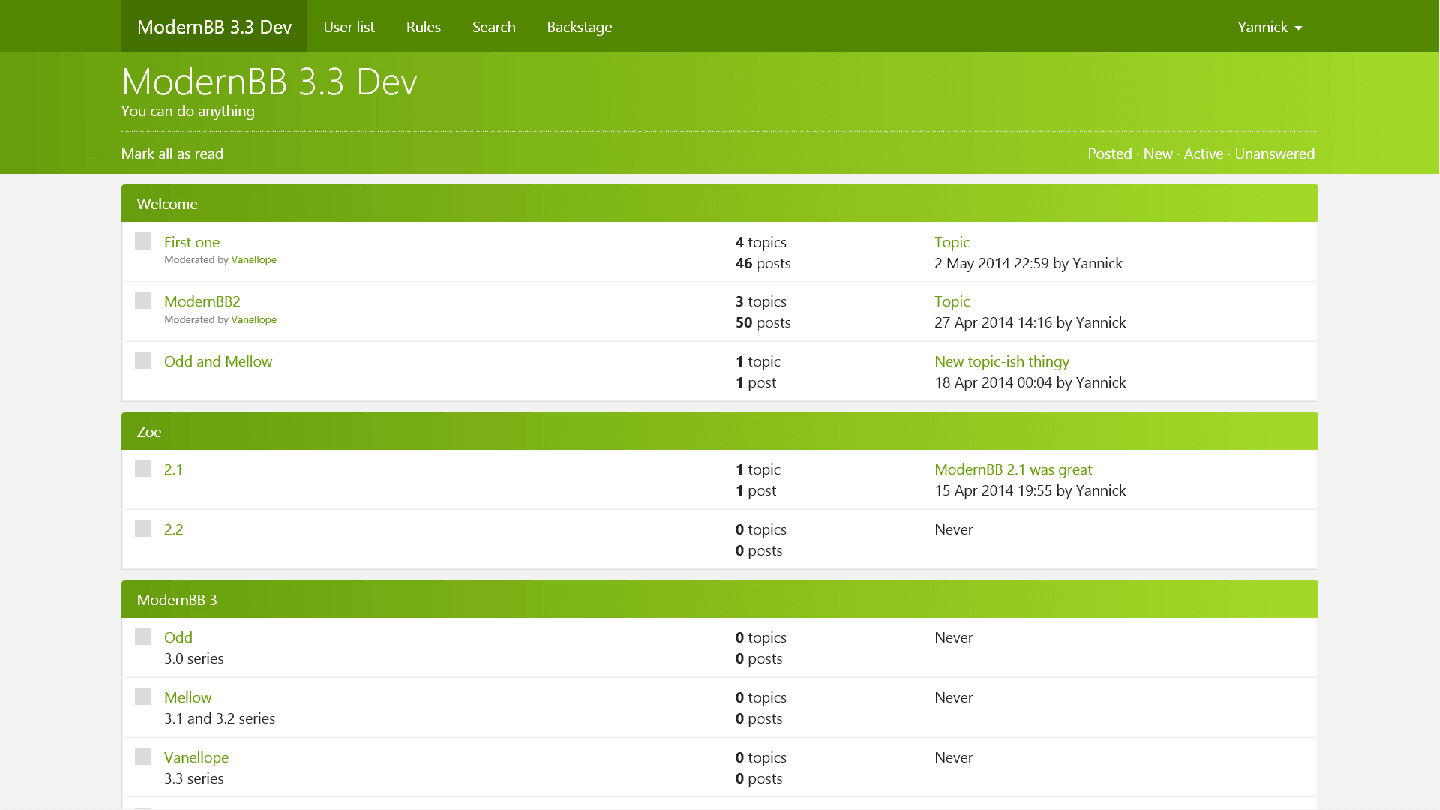
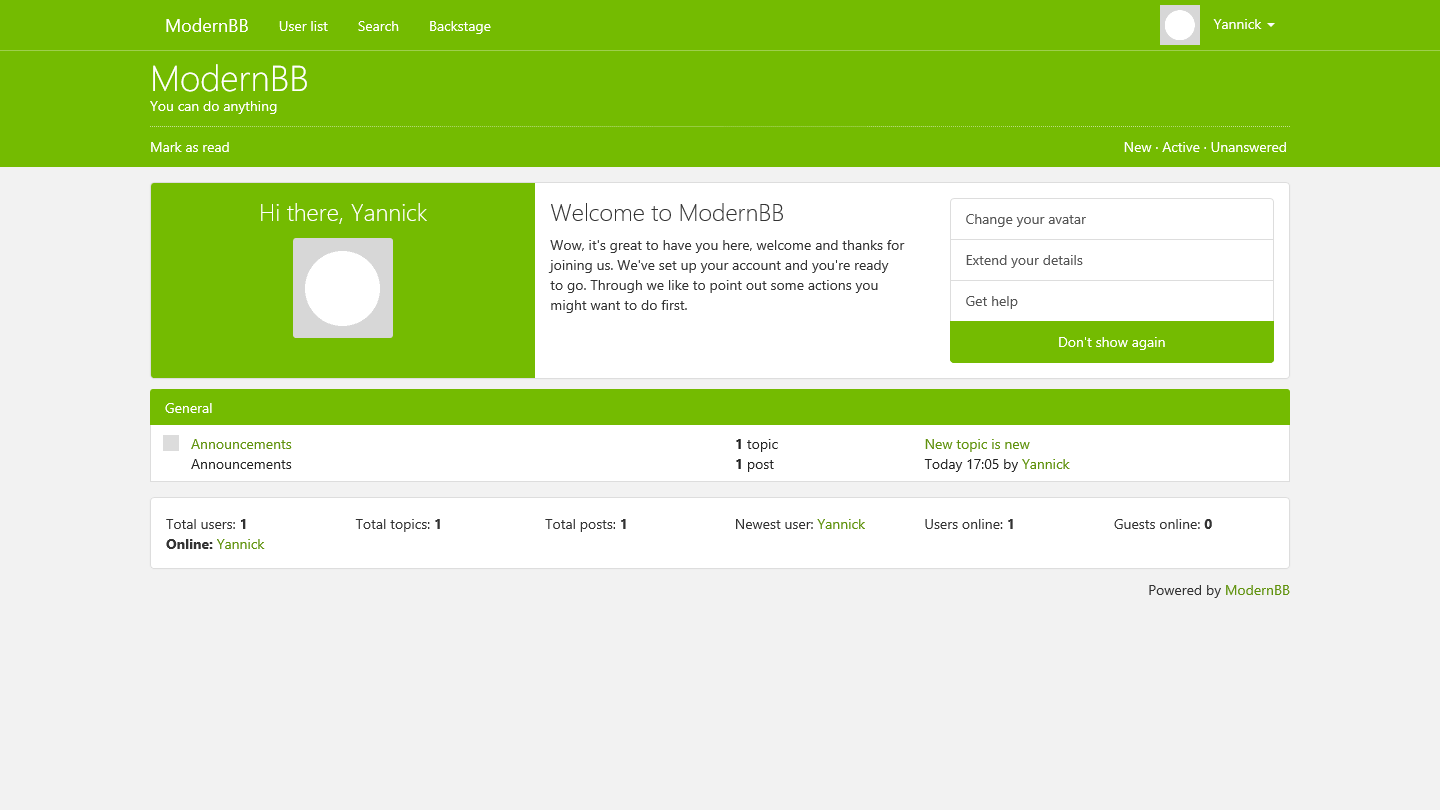
#979 Awesome 4.0 update

diff --git a/style/Awesome/style.css b/style/Awesome/style.css
@@ -71,8 +71,7 @@ h1, h2, h3, h4, h5, h6 {
 
 /* Header */
 #header {
-	background: #679e0d;
-	background: linear-gradient(to right, #679e0d, #a4da28);
+	background: #74bb01;
 	color: #fff;
 }
 
@@ -95,7 +94,7 @@ h1, h2, h3, h4, h5, h6 {
 	}
 
 	#header .dropdown-menu > li > a:hover, #header .dropdown-menu > li > a:focus {
-		background: #92c820;
+		background: #74bb01;
 	}
 
 	.dropdown-menu .divider {
@@ -110,12 +109,6 @@ h1, h2, h3, h4, h5, h6 {
 
 .announcement a {
 	text-decoration: underline;
-}
-
-@media screen and (min-width: 768px) {
-	.navbar-default .navbar-brand, .navbar-default .navbar-brand:hover, .navbar-default .navbar-brand:focus {
-		background: #447000;
-	}
 }
 
 .avatar-item .avatar {
@@ -170,8 +163,7 @@ h1, h2, h3, h4, h5, h6 {
 }
 
 .first-run-profile {
-	background-image: url(../../img/core/firstrun.png);
-	background-size: cover;
+	background: #74bb01;
 	height: 100%;
 	border-bottom-left-radius: 3px;
 	border-top-left-radius: 3px;
@@ -190,7 +182,6 @@ h1, h2, h3, h4, h5, h6 {
 
 .first-run-avatar img {
 	border-radius: 3px;
-	box-shadow: 0px 0px 13px #808080;
 }
 
 .first-run-list {
@@ -290,8 +281,7 @@ h1, h2, h3, h4, h5, h6 {
 
 .panel-default .panel-heading {
 	border: none;
-	background: #679e0d;
-	background: linear-gradient(to right, #679e0d, #a4da28);
+	background: #74bb01;
 	color: #fff;
 	height: 37px;
 }
@@ -315,23 +305,13 @@ h1, h2, h3, h4, h5, h6 {
 	margin: 0 auto;
 }
 
-@media(min-width:767px) {
-	ul.nav li.dropdown:hover > ul.dropdown-menu{
-		display: block;
-	}
-}
-
 .navbar {
-	border: none;
-	background: #538700;
+	background: #74bb01;
+	border-bottom-color: rgba(255,255,255,.3);
 }
 
-.navbar-default .navbar-nav > li > a:hover, .navbar-default .navbar-nav > li > a:focus, .navbar-default .navbar-nav > .active > a, .navbar-default .navbar-nav > .active > a:hover, .navbar-default .navbar-nav > .active > a:focus {
-	background-color: #4c7c00;
-}
-
-.navbar-default .navbar-nav > .open > a, .navbar-default .navbar-nav > .open > a:hover, .navbar-default .navbar-nav > .open > a:focus {
-    background-color: #4c7c00;
+.navbar-default .navbar-nav > .open > a, .navbar-default .navbar-nav > .open > a:hover, .navbar-default .navbar-nav > .open > a:focus, .navbar-default .navbar-nav > .active > a, .navbar-default .navbar-nav > .active > a:hover, .navbar-default .navbar-nav > .active > a:focus {
+background-color: transparent;
     color: #fff;
 }
 
@@ -358,7 +338,7 @@ h1, h2, h3, h4, h5, h6 {
 }
 
 .navbar-default .navbar-toggle .icon-bar {
-	background-color: #538700;
+	background-color: #74bb01;
 }
 
 /* Pagination */
@@ -373,8 +353,8 @@ h1, h2, h3, h4, h5, h6 {
 }
 
 .pagination > .active > a, .pagination > .active > span, .pagination > .active > a:hover, .pagination > .active > span:hover, .pagination > .active > a:focus, .pagination > .active > span:focus {
-	border: 1px solid #6b9b12;
-	background-color: #6b9b12;
+	border: 1px solid #74bb01;
+	background-color: #74bb01;
 }
 
 /* Profile */
@@ -384,8 +364,8 @@ h1, h2, h3, h4, h5, h6 {
 }
 
 a.active.list-group-item, a.active.list-group-item:hover, a.active.list-group-item:focus {
-	background-color: #6b9b12;
-	border-color: #6b9b12;
+	background-color: #74bb01;
+	border-color: #74bb01;
 }
 
 .profile-h2 {
@@ -530,14 +510,12 @@ a.active.list-group-item, a.active.list-group-item:hover, a.active.list-group-it
 
 .table > thead > tr.active {
 	color: #fff;
-	background: #92c820;
-	background: linear-gradient(to right, #679e0d, #a4da28);
+	background: #74bb01;
 }
 
 .category-header, .forum-header {
 	color: #fff;
-	background: #92c820;
-	background: linear-gradient(to right, #679e0d, #a4da28);
+	background: #74bb01;
 	padding: 8px 0;
 	border-top-left-radius: 3px;
 	border-top-right-radius: 3px;
@@ -589,13 +567,13 @@ a.active.list-group-item, a.active.list-group-item:hover, a.active.list-group-it
 
 .btn-primary {
 	color: #fff;
-	background: #699934;
-	border-color: #4f7327;
+	background: #74bb01;
+	border-color: #68a700;
 }
 
 .btn-primary:hover, .btn-primary:focus, .btn-primary:active, .btn-primary.active, .btn-primary.disabled, .btn-primary[disabled] {
-	background: #88c149;
-	border-color: #4f7327;
+	background: #68a700;
+	border-color: #5a9100;
 	color: #fff;
 }
 
@@ -933,7 +911,7 @@ textarea {
 
 .profile-card-head {
 	height: 59px;
-	background-color: #679e0d;
+	background-color: #74bb01;
 	color: #fff;
 	border-top-left-radius: 3px;
 	border-top-right-radius: 3px;
@@ -1001,12 +979,11 @@ textarea {
     left: 4px;
     margin-top: -2px;
     border-left-width: 0px;
-    border-right-color: #679e0d;;
+    border-right-color: #74bb01;;
 }
 
 .topic .panel-heading {
-	background: #679e0d;
-	background: linear-gradient(to right, #679e0d, #a4da28);
+	background: #74bb01;
 }
 
 .post-actions {
@@ -1024,8 +1001,7 @@ textarea {
 	}
 
 	.profile-card-head {
-		background: #679e0d;
-		background: linear-gradient(to right, #679e0d, #a4da28);
+		background: #74bb01;
 	}
 
 	.topic .panel-heading  {
@@ -1109,8 +1085,7 @@ blockquote footer {
 .form-heading {
 	margin-bottom: 0px;
 	font-weight: 100;
-	background: #92c820;
-	background: linear-gradient(to right, #679e0d, #a4da28);
+	background: #74bb01;
 	color: #fff;
 	padding: 20px;
 	border-top-right-radius: 3px;
@@ -1177,7 +1152,6 @@ blockquote footer {
 
 .form-errors {
 	background: #ff6000;
-	background: linear-gradient(to right, #ce4e00, #ff6000);
 }
 
 @media screen and (max-width: 767px) {

diff --git a/style/Awesome/information.php b/style/Awesome/information.php
@@ -15,8 +15,8 @@ $xmlstr = <<<XML
 	<id>awesome</id>
 	<name>Awesome</name>
 	<developer>Studio 384</developer>
-	<date>23 November 2014</date>
-	<version>3.2.2</version>
+	<date>24 November 2014</date>
+	<version>4.0-dev</version>
 	<description>As fancy as can be, Awesome is a style designed to be great and simple. Make it look green, my friend!</description>
 	<minversion>3.4.1</minversion>
 	<maxversion>3.5.3</maxversion>
